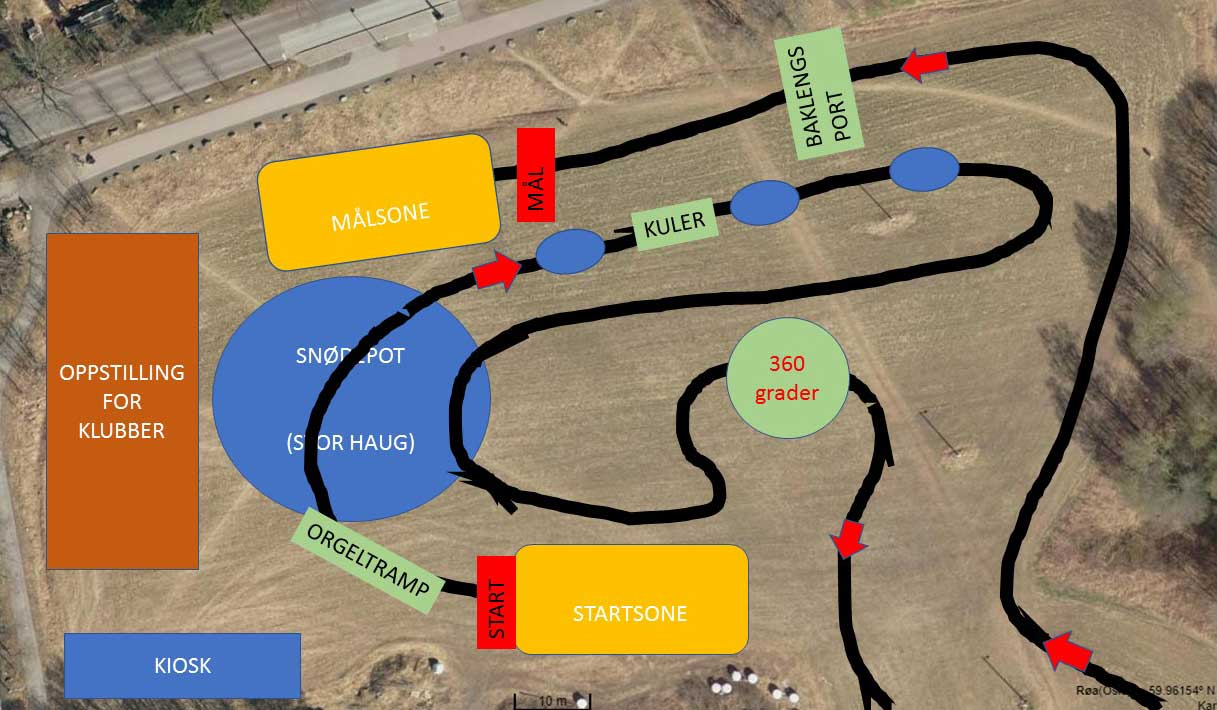
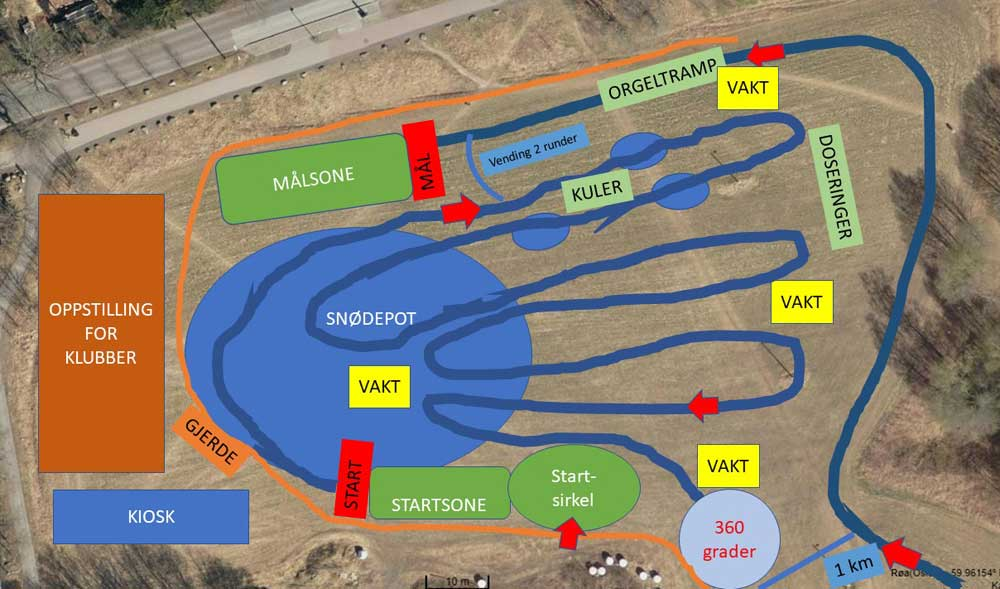
updated image

diff --git a/dist/løype.html b/dist/løype.html
@@ -2,4 +2,4 @@
         function gtag() { dataLayer.push(arguments); }
         gtag('js', new Date());
 
-        gtag('config', 'UA-114690662-1');</script></head><body><header id="header"><a id="martinTxt" href="index.html">MartinCrossen</a><div class="arrow-right"></div><div id="horizontalNav"><ul><li><a href="info.html" class="navBtn">Informasjon</a></li><li><a href="startlister.html" class="navBtn">Startlister</a></li><li><a href="resultater.html" class="navBtn">Resultater</a></li><li><a href="løype.html" class="navBtn">Løype</a></li></ul></div><button id="menuBtn" class="action material-icons">menu</button></header><nav style="margin-top: -322px;" id="dropDown"><div><ul><li><a href="info.html" class="navBtn">Informasjon</a></li><li><a href="startlister.html" class="navBtn">Startlister</a></li><li><a href="resultater.html" class="navBtn">Resultater</a></li><li><a href="løype.html" class="navBtn">Løype</a></li></ul></div></nav><div class="wrapper"><img src="images/loype1.jpg" alt="MartinCrossen løypekart"> <img src="images/loype2.jpg" alt="MartinCrossen løpekart"><video src="https://firebasestorage.googleapis.com/v0/b/martincrossen-5da8b.appspot.com/o/loype-video.mp4?alt=media&token=75476fd9-7642-4f0d-978e-135699869fe0" controls></video></div><footer><hr class="bla"><hr class="gul"><h3><a href="index.html">MartinCrossen</a></h3><span id="legalLinks"><a href="terms.html" class="legalLink">Terms and Conditions</a> <a href="privacy.html" class="legalLink">Privacy Policy</a></span><h4>Utviklet av <a href="https://magson.no" target="_blank">MAGSON</a></h4></footer><script src="https://ajax.googleapis.com/ajax/libs/jquery/3.2.1/jquery.min.js"></script><script src="js/header.js?v=1.0.0"></script></body></html>
+        gtag('config', 'UA-114690662-1');</script></head><body><header id="header"><a id="martinTxt" href="index.html">MartinCrossen</a><div class="arrow-right"></div><div id="horizontalNav"><ul><li><a href="info.html" class="navBtn">Informasjon</a></li><li><a href="startlister.html" class="navBtn">Startlister</a></li><li><a href="resultater.html" class="navBtn">Resultater</a></li><li><a href="løype.html" class="navBtn">Løype</a></li></ul></div><button id="menuBtn" class="action material-icons">menu</button></header><nav style="margin-top: -322px;" id="dropDown"><div><ul><li><a href="info.html" class="navBtn">Informasjon</a></li><li><a href="startlister.html" class="navBtn">Startlister</a></li><li><a href="resultater.html" class="navBtn">Resultater</a></li><li><a href="løype.html" class="navBtn">Løype</a></li></ul></div></nav><div class="wrapper"><img src="images/loype1.jpg?v=1.0" alt="MartinCrossen løypekart"> <img src="images/loype2.jpg?v=1.0" alt="MartinCrossen løpekart"> <img src="images/loype3.jpg" alt="MartinCrossen løpekart"><video src="https://firebasestorage.googleapis.com/v0/b/martincrossen-5da8b.appspot.com/o/loype-video.mp4?alt=media&token=75476fd9-7642-4f0d-978e-135699869fe0" controls></video></div><footer><hr class="bla"><hr class="gul"><h3><a href="index.html">MartinCrossen</a></h3><span id="legalLinks"><a href="terms.html" class="legalLink">Terms and Conditions</a> <a href="privacy.html" class="legalLink">Privacy Policy</a></span><h4>Utviklet av <a href="https://magson.no" target="_blank">MAGSON</a></h4></footer><script src="https://ajax.googleapis.com/ajax/libs/jquery/3.2.1/jquery.min.js"></script><script src="js/header.js?v=1.0.0"></script></body></html>

diff --git a/src/løype.html b/src/løype.html
@@ -68,8 +68,9 @@
         </div>
     </nav>
     <div class="wrapper">
-        <img src="images/loype1.jpg" alt="MartinCrossen løypekart">
-        <img src="images/loype2.jpg" alt="MartinCrossen løpekart">
+        <img src="images/loype1.jpg?v=1.0" alt="MartinCrossen løypekart">
+        <img src="images/loype2.jpg?v=1.0" alt="MartinCrossen løpekart">
+        <img src="images/loype3.jpg" alt="MartinCrossen løpekart">
         <video src="https://firebasestorage.googleapis.com/v0/b/martincrossen-5da8b.appspot.com/o/loype-video.mp4?alt=media&token=75476fd9-7642-4f0d-978e-135699869fe0"
             controls></video>
     </div>
